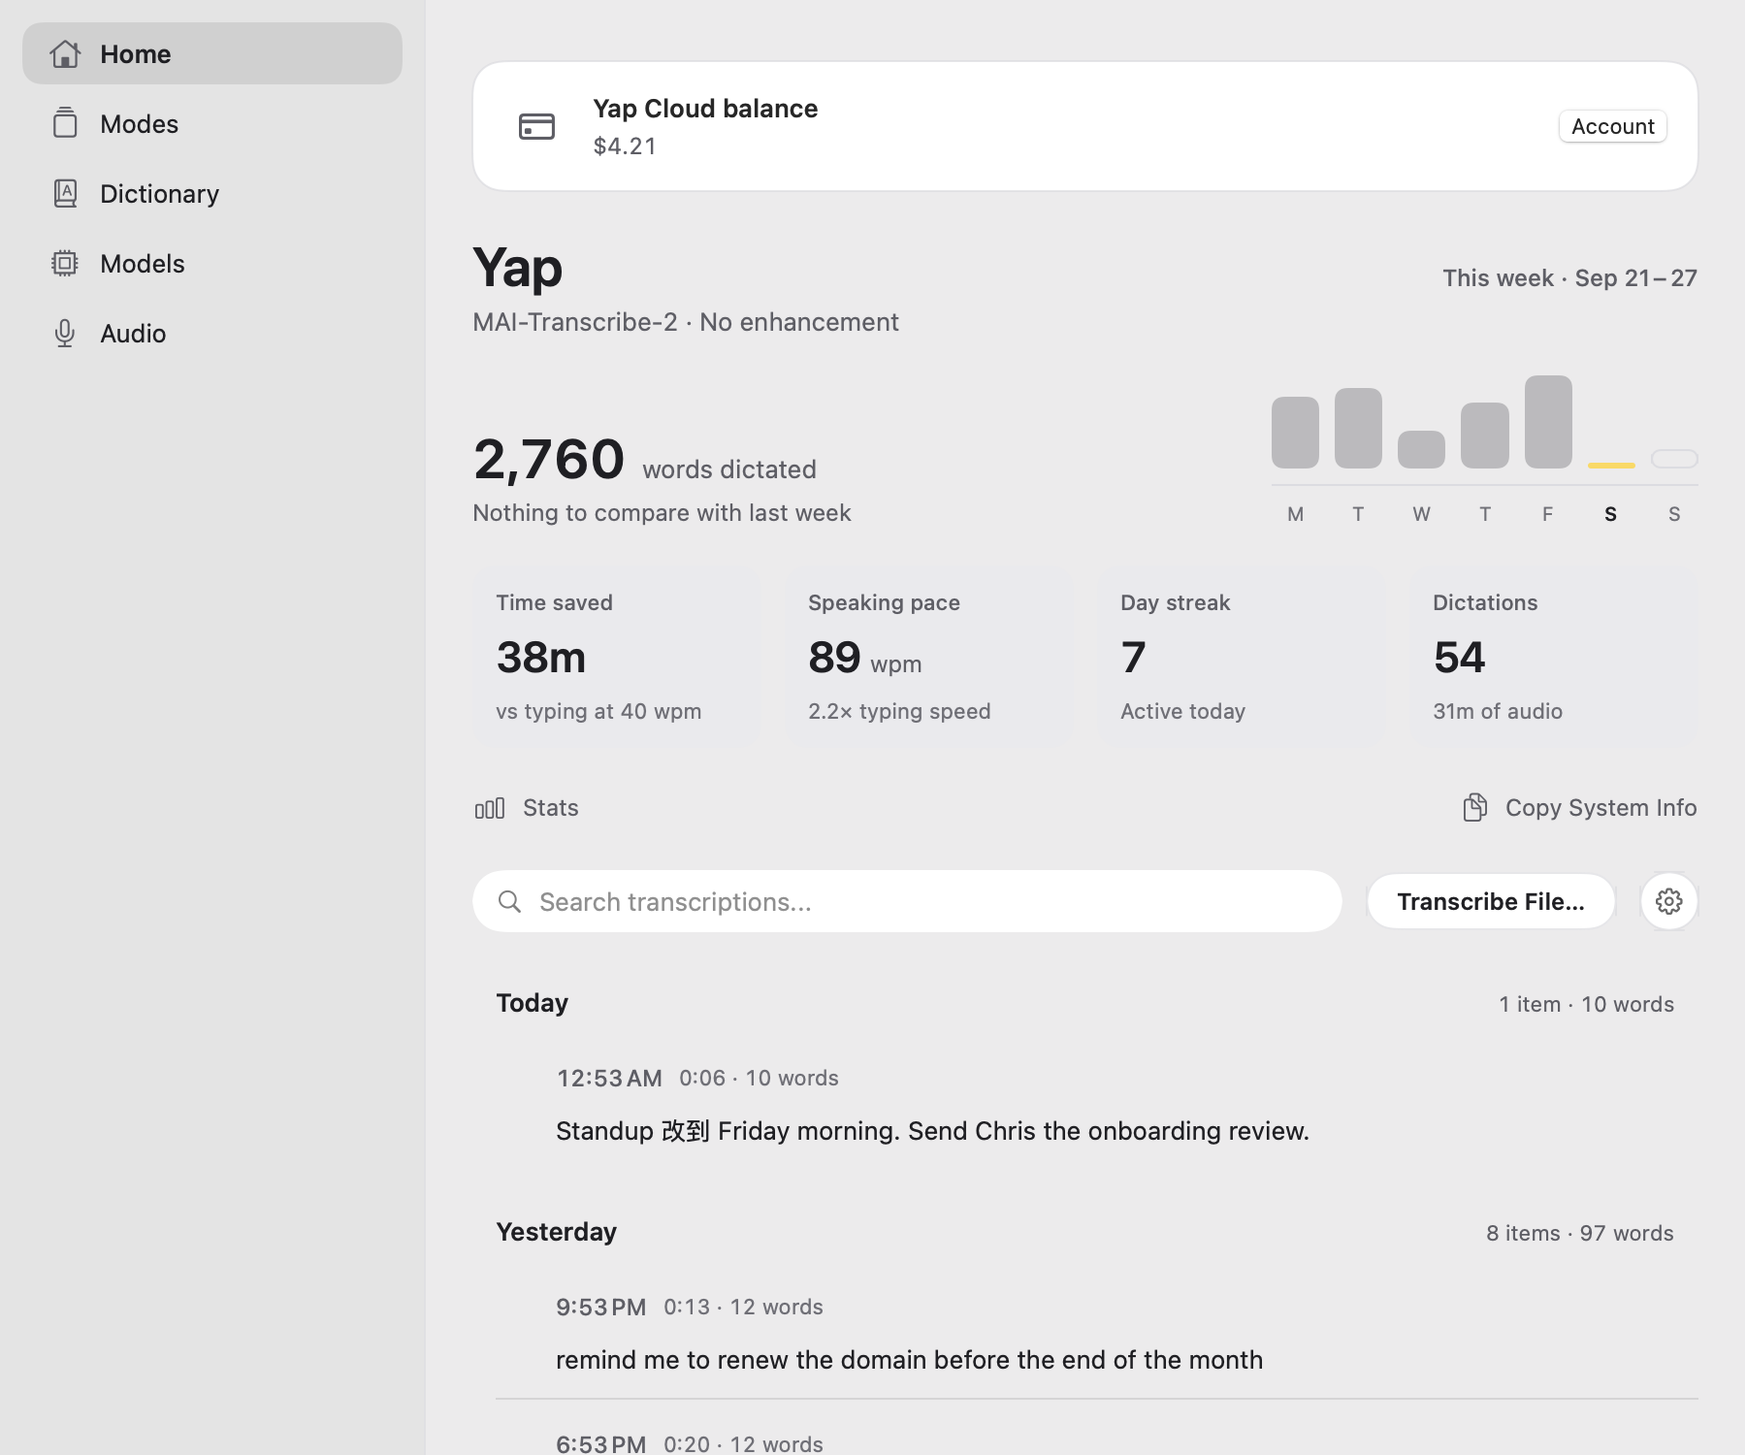
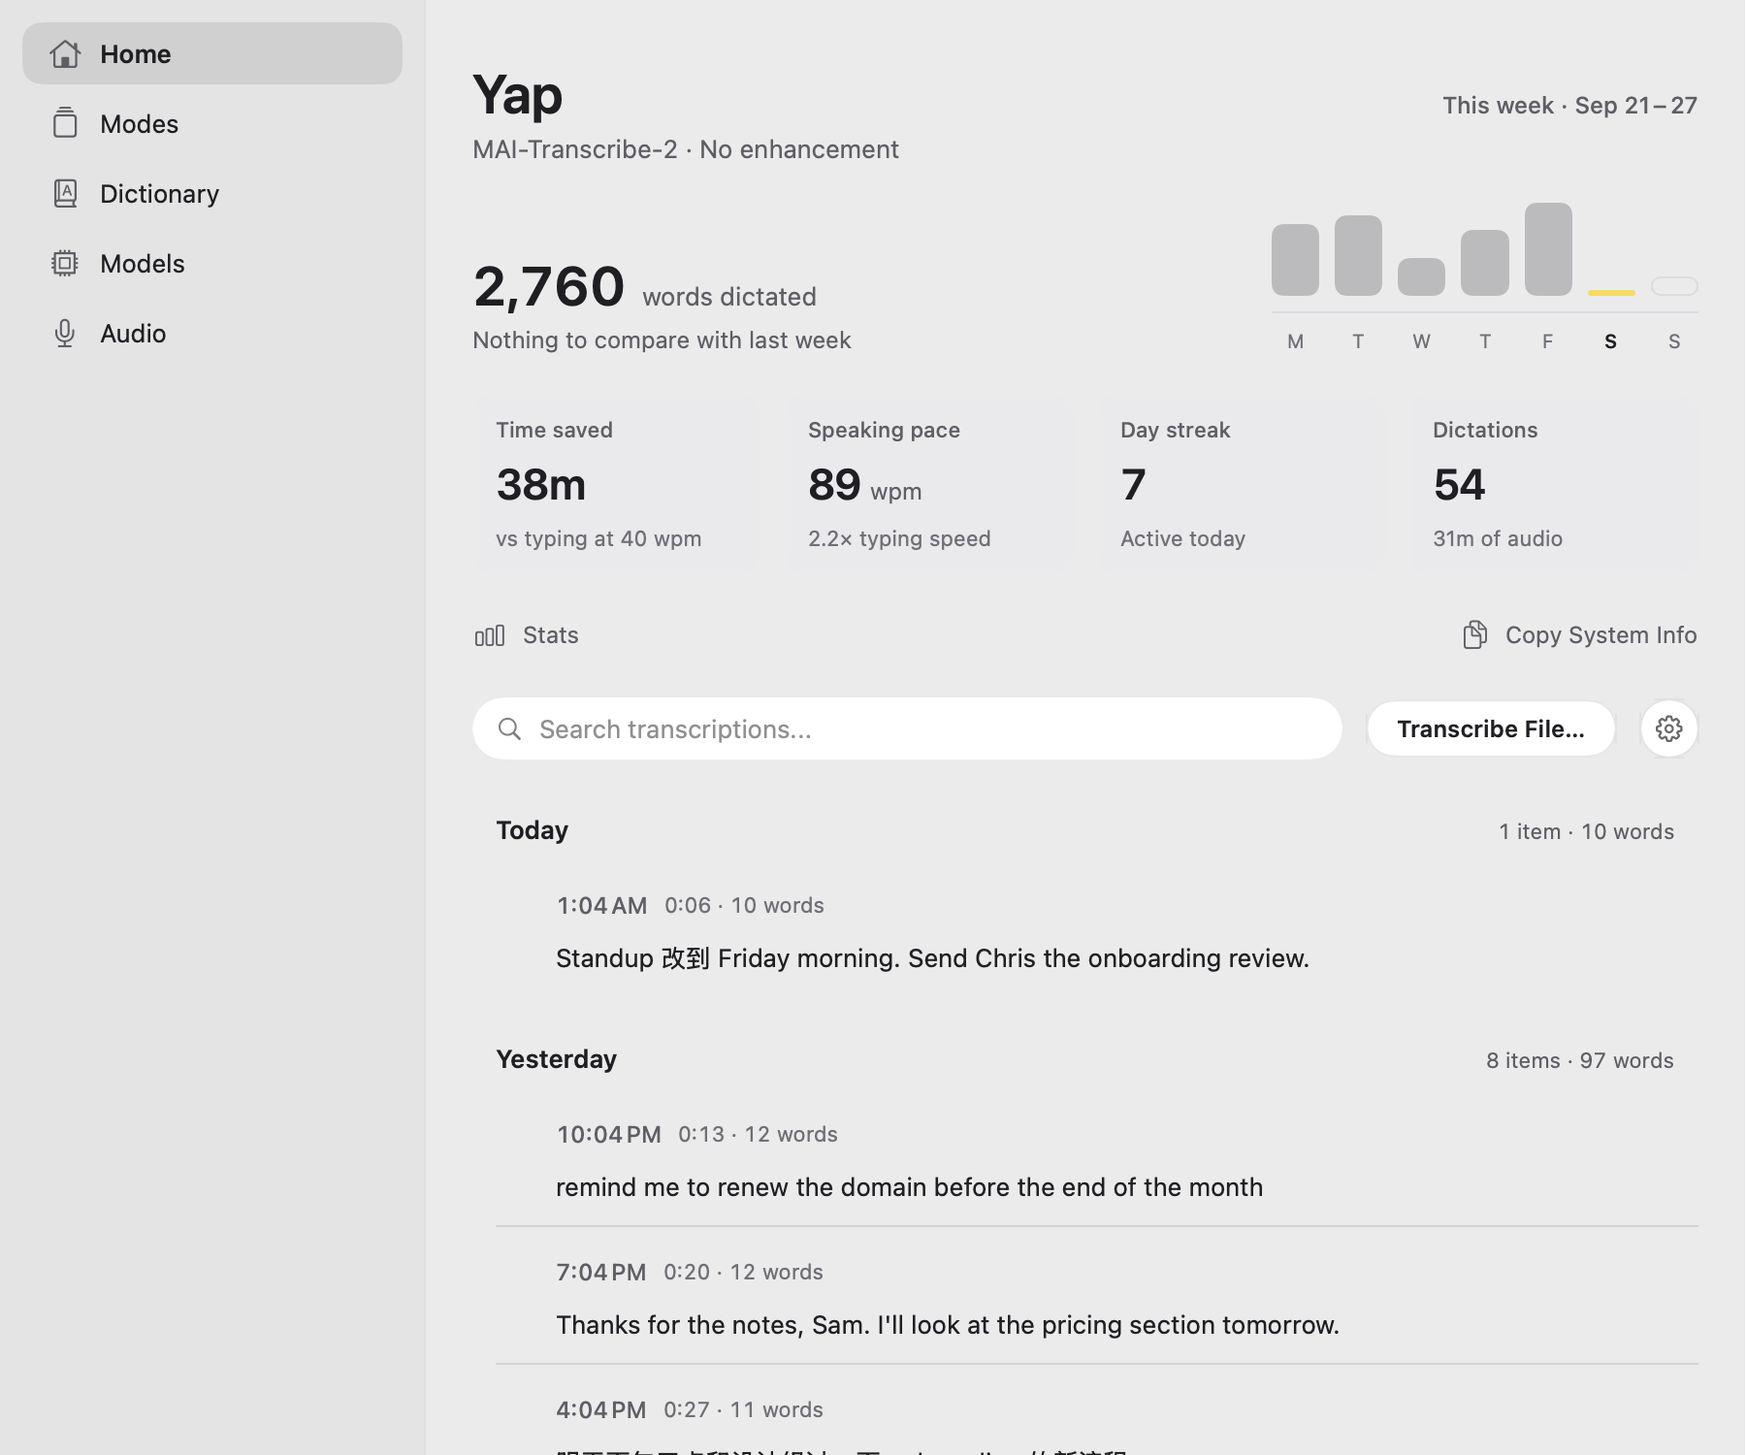
README: an open-source dictation app first; Yap Cloud is one section
Opens with what Yap is (GPL-3.0, how dictation works, modes, dictionary) and the VoiceInk credit, then
'Choosing where your voice goes' (local model, your own key, Yap Cloud as equals), Install with a
build-from-source line, and the fork differences. The Yap Cloud section now points at Models > Cloud >
Yap Cloud instead of the sidebar Account. Screenshots re-rendered: Home no longer shows a balance.

diff --git a/README.md b/README.md
@@ -6,18 +6,19 @@
 
 <p align="center">按住快捷键说话，中英混着说也行，松开就是整理好的文字。</p>
 
-<p align="center"><img src="design/screenshots/home-en.png" width="720" alt="Yap's Home: Yap Cloud balance, this week's dictation stats and today's transcripts, mixing English and Chinese"></p>
+<p align="center"><img src="design/screenshots/home-en.png" width="720" alt="Yap's Home: this week's dictation stats and today's transcripts, mixing English and Chinese"></p>
 
-Yap is a fork of [VoiceInk](https://github.com/Beingpax/VoiceInk) by Prakash Joshi Pax, distributed under the same GPL-3.0 license. All credit for the app goes to the original author — if you want the official, notarized, auto-updating build, [buy VoiceInk](https://tryvoiceink.com/).
+Yap is an open-source dictation app for macOS, released under the GPL-3.0. Hold a shortcut, talk in English, Chinese or both in one sentence, and let go: Yap transcribes, cleans up the filler and punctuation, and pastes the text into whatever app you're in. Modes pick a different prompt or model per app (email, code review, chat), and a dictionary keeps names and terms spelled your way.
 
-What this fork changes:
+Yap is a fork of [VoiceInk](https://github.com/Beingpax/VoiceInk) by Prakash Joshi Pax. All credit for the app goes to the original author — if you want the official, notarized build, [buy VoiceInk](https://tryvoiceink.com/). Website: [yap.sma1lboy.me](https://yap.sma1lboy.me).
 
-- Its own identity: app name, bundle ID `me.sma1lboy.yap`, Application Support folder and keychain namespace, so it installs next to VoiceInk without sharing data. Upstream announcements, GitHub-star prompts, the Pro/licensing screen and the upstream change log are gone.
-- A calmer UI: monochrome sidebar, a Home screen that shows the default mode and recent transcripts, SF Symbols instead of emoji.
-- Onboarding lets you skip the transcription and AI provider steps ("Set It Up Later") and configure everything from a JSON file instead.
-- Its own update channel: CI signs every release with a stable self-signed certificate, publishes it, and updates both the Sparkle appcast (in-app updates) and the Homebrew cask.
-- A duck icon (`design/logo.svg`).
-- `setup/`: a tuned setup for Chinese–English code-switched dictation through OpenRouter, plus the benchmark scripts used to pick the models.
+## Choosing where your voice goes
+
+Pick one during setup and change it any time, per mode if you like:
+
+- **Local model**: NVIDIA's Parakeet, Whisper and others run on your Mac, fully offline. Cleanup can run locally too (Yap Refine, Ollama). Models → Local.
+- **Your own key**: OpenRouter or any other provider you already use; requests go straight to it, and the key stays in this Mac's keychain. The default OpenRouter setup is tuned for mixed Chinese–English speech (see `setup/`). Models → Cloud.
+- **Yap Cloud**: if you'd rather not get a key, sign in with your email and pay as you go. See [Yap Cloud](#yap-cloud).
 
 ## Install
 
@@ -30,20 +31,31 @@ The script installs the app with Homebrew (or downloads the latest release), cop
 
 Just the app: `brew tap sma1lboy/yap https://github.com/Sma1lboy/yap && brew install --cask sma1lboy/yap/yap`. After that, Yap updates itself (Check for Updates… in the app menu) or with `brew upgrade --cask yap`.
 
+**Build it yourself.** With Xcode installed, `make local` in the cloned repository builds Yap and copies `Yap.app` to your Downloads folder. Releases are signed with a self-signed certificate and not notarized; the [site's FAQ](https://yap.sma1lboy.me/#faq) explains the one-time "can't verify the developer" step for a downloaded zip.
+
+## How Yap differs from VoiceInk
+
+- Its own identity: app name, bundle ID `me.sma1lboy.yap`, Application Support folder and keychain namespace, so it installs next to VoiceInk without sharing data. Upstream announcements, GitHub-star prompts, the Pro/licensing screen and the upstream change log are gone.
+- A calmer UI: monochrome sidebar, a Home screen that shows the default mode and recent transcripts, SF Symbols instead of emoji.
+- Onboarding lets you skip the transcription and AI provider steps ("Set It Up Later") and configure everything from a JSON file instead.
+- Its own update channel: CI signs every release with a stable self-signed certificate, publishes it, and updates both the Sparkle appcast (in-app updates) and the Homebrew cask.
+- A duck icon (`design/logo.svg`).
+- `setup/`: a tuned setup for Chinese–English code-switched dictation through OpenRouter, plus the benchmark scripts used to pick the models.
+
 ## Yap Cloud
 
-Yap Cloud is an optional account that pays for transcription and cleanup from a prepaid balance, so you don't need API keys from OpenRouter or other providers. It uses the same models as the "Your OpenRouter Key" setup.
+Yap Cloud is one of the three ways to run Yap: an optional account that pays for transcription and cleanup from a prepaid balance, for people who'd rather not get API keys from OpenRouter or other providers. It uses the same models as the "Your OpenRouter Key" setup. Everything below is on the Yap Cloud page: **Models → Cloud → Yap Cloud**.
 
-**Sign up / sign in.** Open **Account** in the sidebar, enter your email, then the 6-digit code sent to it. There is no password. A new account gets $1 of credit, listed under **Recent Activity** as "Sign-up bonus". During onboarding you can pick **Use Yap Cloud (pay as you go)** on the model step instead.
+**Sign up / sign in.** On the Yap Cloud page, enter your email, then the 6-digit code sent to it. There is no password. A new account gets $1 of credit, listed under **Recent Activity** as "Sign-up bonus". During onboarding you can pick the **Yap Cloud** tab on the model step instead.
 
 <!-- 10% = paygate MARKUP; update here, README.zh-CN.md and site/index.html when it changes. -->
-**What it costs.** Each transcription or cleanup request is charged the model provider's price plus 10%. **Account → Models & Pricing** lists the models; **This Month** shows what you spent this month and on which models, and **Recent Activity** lists every charge and top-up.
+**What it costs.** Each transcription or cleanup request is charged the model provider's price plus 10%. **Models & Pricing** lists the models; **This Month** shows what you spent this month and on which models, and **Recent Activity** lists every charge and top-up.
 
-**Adding funds.** In **Account → Add Funds**, pick $5, $10 or $20, or Custom (a whole-dollar amount from $5 to $500), and click **Add Funds…**. Checkout opens in your browser; the balance updates when you come back to Yap. Below $1 Yap shows a low-balance warning; when the balance runs out, Yap Cloud requests stop and a notification takes you to Account.
+**Adding funds.** In **Add Funds**, pick $5, $10 or $20, or Custom (a whole-dollar amount from $5 to $500), and click **Add Funds…**. Checkout opens in your browser; the balance updates when you come back to Yap. Below $1 Yap shows a low-balance warning; when the balance runs out, Yap Cloud requests stop and a notification takes you to the Yap Cloud page. The balance itself is only shown on that page and in these warnings.
 
-**Monthly cap.** **Account → Monthly Cap** limits spending per calendar month: pick $5, $10, $20, a custom amount up to $10,000, or No Cap. Once this month's spending reaches the cap, Yap Cloud stops charging until next month or until you raise the cap. A cap of $0 blocks all Yap Cloud calls.
+**Monthly cap.** **Monthly Cap** limits spending per calendar month: pick $5, $10, $20, a custom amount up to $10,000, or No Cap. Once this month's spending reaches the cap, Yap Cloud stops charging until next month or until you raise the cap. A cap of $0 blocks all Yap Cloud calls.
 
-**Devices.** Every Mac you sign in on gets its own token (kept in that Mac's keychain, never synced). **Account → Signed-in Devices** lists them with when each was last used; **Remove** signs that Mac out so it stops charging your balance. It can sign in again with your email. **Sign Out** on the Account page signs out this Mac; modes that use Yap Cloud stop working until you sign in again or switch them to another provider.
+**Devices.** Every Mac you sign in on gets its own token (kept in that Mac's keychain, never synced). **Signed-in Devices** lists them with when each was last used; **Sign Out** next to another Mac signs it out so it stops charging your balance. It can sign in again with your email. **Sign Out** under **Account** at the bottom of the page signs out this Mac; modes that use Yap Cloud stop working until you sign in again or switch them to another provider.
 
 ## Config & Sync
 

diff --git a/README.zh-CN.md b/README.zh-CN.md
@@ -6,18 +6,19 @@
 
 <p align="center">按住快捷键说话，中英混着说也行，松开就是整理好的文字。</p>
 
-<p align="center"><img src="design/screenshots/home-zh.png" width="720" alt="Yap 主页：Yap Cloud 余额、本周听写统计和今天中英混说的转写记录"></p>
+<p align="center"><img src="design/screenshots/home-zh.png" width="720" alt="Yap 主页：本周听写统计和今天中英混说的转写记录"></p>
 
-Yap 是 Prakash Joshi Pax 的 [VoiceInk](https://github.com/Beingpax/VoiceInk) 的一个分支，沿用同样的 GPL-3.0 许可证。应用本身的功劳都属于原作者；如果你想要官方签名公证、自动更新的版本，请[购买 VoiceInk](https://tryvoiceink.com/)。
+Yap 是 macOS 上的开源听写 app，以 GPL-3.0 发布。按住快捷键说话，中文、英文或者一句话里混着说都行，松开后 Yap 转写、去掉口头禅、补好标点，再粘贴进你正在用的 app。「模式」可以按 app 用不同的提示词或模型（邮件、代码评审、聊天），「词典」让人名和术语按你的写法拼。
 
-这个分支改了什么：
+Yap 是 Prakash Joshi Pax 的 [VoiceInk](https://github.com/Beingpax/VoiceInk) 的一个分支。应用本身的功劳都属于原作者；如果你想要官方签名公证的版本，请[购买 VoiceInk](https://tryvoiceink.com/)。官网：[yap.sma1lboy.me](https://yap.sma1lboy.me)。
 
-- 独立的身份：应用名、bundle ID `me.sma1lboy.yap`、Application Support 目录和钥匙串命名空间都是自己的，可以和 VoiceInk 并存、互不共享数据。去掉了上游的公告、GitHub 求星提示、Pro/授权页面和上游更新日志。
-- 更安静的界面：单色侧边栏、显示默认模式和最近转写的主页、用 SF Symbols 代替 emoji。
-- 引导流程可以跳过转写和 AI 服务商的设置（「稍后设置」），改用 JSON 配置文件配置。
-- 自己的更新通道：CI 用固定的自签名证书给每个版本签名并发布，同时更新 Sparkle appcast（应用内更新）和 Homebrew cask。
-- 鸭子图标（`design/logo.svg`）。
-- `setup/`：一套针对中英混说、通过 OpenRouter 调好的配置，以及挑选模型用的评测脚本。
+## 声音交给谁处理
+
+首次设置时选一种，之后随时可以换，也可以每个模式用不同的：
+
+- **本地模型**：NVIDIA 的 Parakeet、Whisper 等模型在你的 Mac 上运行，完全离线。整理也可以在本地做（Yap Refine、Ollama）。在 模型 → 本地。
+- **自带 key**：OpenRouter，或者你已经在用的任何提供商；请求直接发给它，key 只存在这台 Mac 的钥匙串里。默认的 OpenRouter 配置为中英混说调过（见 `setup/`）。在 模型 → 云端。
+- **Yap Cloud**：不想自己申请 key 的话，用邮箱登录，按用量付费。见 [Yap Cloud](#yap-cloud)。
 
 ## 安装
 
@@ -30,20 +31,31 @@ git clone https://github.com/Sma1lboy/yap && cd yap
 
 只装应用：`brew tap sma1lboy/yap https://github.com/Sma1lboy/yap && brew install --cask sma1lboy/yap/yap`。之后 Yap 会自己更新（应用菜单里的「检查更新…」），也可以用 `brew upgrade --cask yap`。
 
+**自己编译。** 装好 Xcode 后，在克隆下来的仓库里运行 `make local`，会编译 Yap 并把 `Yap.app` 复制到“下载”文件夹。发布版用自签名证书签名、没有经过 Apple 公证；直接下载 zip 第一次打开时提示“无法验证开发者”，处理方法见[官网 FAQ](https://yap.sma1lboy.me/#faq)。
+
+## 和 VoiceInk 有什么不同
+
+- 独立的身份：应用名、bundle ID `me.sma1lboy.yap`、Application Support 目录和钥匙串命名空间都是自己的，可以和 VoiceInk 并存、互不共享数据。去掉了上游的公告、GitHub 求星提示、Pro/授权页面和上游更新日志。
+- 更安静的界面：单色侧边栏、显示默认模式和最近转写的主页、用 SF Symbols 代替 emoji。
+- 引导流程可以跳过转写和 AI 服务商的设置（「稍后设置」），改用 JSON 配置文件配置。
+- 自己的更新通道：CI 用固定的自签名证书给每个版本签名并发布，同时更新 Sparkle appcast（应用内更新）和 Homebrew cask。
+- 鸭子图标（`design/logo.svg`）。
+- `setup/`：一套针对中英混说、通过 OpenRouter 调好的配置，以及挑选模型用的评测脚本。
+
 ## Yap Cloud
 
-Yap Cloud 是一个可选的账户：转写和润色的费用从预充值的余额里扣，不需要去 OpenRouter 或其他服务商申请 API key。用的模型和「自带 OpenRouter Key」配置相同。
+Yap Cloud 是三种用法之一：一个可选的账户，转写和润色的费用从预充值的余额里扣，适合不想去 OpenRouter 或其他服务商申请 API key 的人。用的模型和「自带 OpenRouter Key」配置相同。下面这些都在 Yap Cloud 页面：**模型 → 云端 → Yap Cloud**。
 
-**注册 / 登录。** 打开侧边栏的 **账户**，输入邮箱，再输入发到邮箱里的 6 位验证码。没有密码。新账户会得到 $1 的额度，在 **最近记录** 里显示为「注册赠送」。也可以在引导流程的模型那一步直接选 **使用 Yap Cloud(按量付费)**。
+**注册 / 登录。** 在 Yap Cloud 页面输入邮箱，再输入发到邮箱里的 6 位验证码。没有密码。新账户会得到 $1 的额度，在 **最近记录** 里显示为「注册赠送」。也可以在引导流程的模型那一步选 **Yap Cloud** 标签。
 
 <!-- 10% 即 paygate 的 MARKUP；修改时同步本文件、README.md 和 site/index.html。 -->
-**怎么收费。** 每次转写或润色请求，按模型服务商的价格加 10% 收费。**账户 → 模型与价格** 列出了可用的模型；**本月花费** 显示这个月花了多少、花在哪些模型上；**最近记录** 列出每一笔扣费和充值。
+**怎么收费。** 每次转写或润色请求，按模型服务商的价格加 10% 收费。**模型与价格** 列出了可用的模型；**本月花费** 显示这个月花了多少、花在哪些模型上；**最近记录** 列出每一笔扣费和充值。
 
-**充值。** 在 **账户 → 充值** 里选 $5、$10、$20，或者「自定」（$5 到 $500 之间的整数美元），点 **充值…**。付款页面会在浏览器里打开，回到 Yap 后余额会更新。余额低于 $1 时 Yap 会提示余额不足；余额用完后，Yap Cloud 的请求会停止，并弹出通知带你去账户页。
+**充值。** 在 **充值** 里选 $5、$10、$20，或者「自定义」（$5 到 $500 之间的整数美元），点 **充值…**。付款页面会在浏览器里打开，回到 Yap 后余额会更新。余额低于 $1 时 Yap 会提示余额不足；余额用完后，Yap Cloud 的请求会停止，并弹出通知带你去 Yap Cloud 页面。余额本身只在这个页面和这些提示里出现。
 
-**每月上限。** **账户 → 每月上限** 可以限制每个自然月的花费：选 $5、$10、$20、最多 $10,000 的自定金额，或者「无」。本月花费达到上限后，Yap Cloud 会停止扣费，直到下个月或你调高上限。上限设为 $0 会拦下所有 Yap Cloud 请求。
+**每月上限。** **每月上限** 可以限制每个自然月的花费：选 $5、$10、$20、最多 $10,000 的自定金额，或者「无」。本月花费达到上限后，Yap Cloud 会停止扣费，直到下个月或你调高上限。上限设为 $0 会拦下所有 Yap Cloud 请求。
 
-**设备。** 每台登录过的 Mac 都有自己的登录凭证（存在那台 Mac 的钥匙串里，不会同步）。**账户 → 已登录的设备** 列出这些设备和各自最后使用的时间；点 **移除** 会让那台 Mac 退出登录，不再从你的余额扣费，之后它可以用邮箱重新登录。账户页的 **退出登录** 让这台 Mac 退出；用到 Yap Cloud 的模式会停止工作，直到你重新登录或把它们换成别的服务商。
+**设备。** 每台登录过的 Mac 都有自己的登录凭证（存在那台 Mac 的钥匙串里，不会同步）。**已登录的设备** 列出这些设备和各自最后使用的时间；点其他 Mac 旁边的 **退出登录** 会让那台 Mac 退出，不再从你的余额扣费，之后它可以用邮箱重新登录。页面底部 **账户** 里的 **退出登录** 让这台 Mac 退出；用到 Yap Cloud 的模式会停止工作，直到你重新登录或把它们换成别的服务商。
 
 ## 配置与同步
 

diff --git a/design/screenshots/README.md b/design/screenshots/README.md
@@ -1,6 +1,6 @@
 # design/screenshots
 
-Product screenshots for GitHub Releases and the READMEs: Home, Account and Modes, light, English (`-en`) and Chinese (`-zh`). 1800×1500 PNG, the main window at its default size (900×750 pt) at 2x.
+Product screenshots for GitHub Releases and the READMEs: Home, the Yap Cloud page (`account-*`, Models > Cloud > Yap Cloud) and Modes, light, English (`-en`) and Chinese (`-zh`). 1800×1500 PNG, the main window at its default size (900×750 pt) at 2x.
 
 They're `make ui-snapshots` renders (the same fake data as `make mock`: signed in with $4.21, 20 mixed Chinese–English transcripts, five modes), cropped to the window's height:
 
